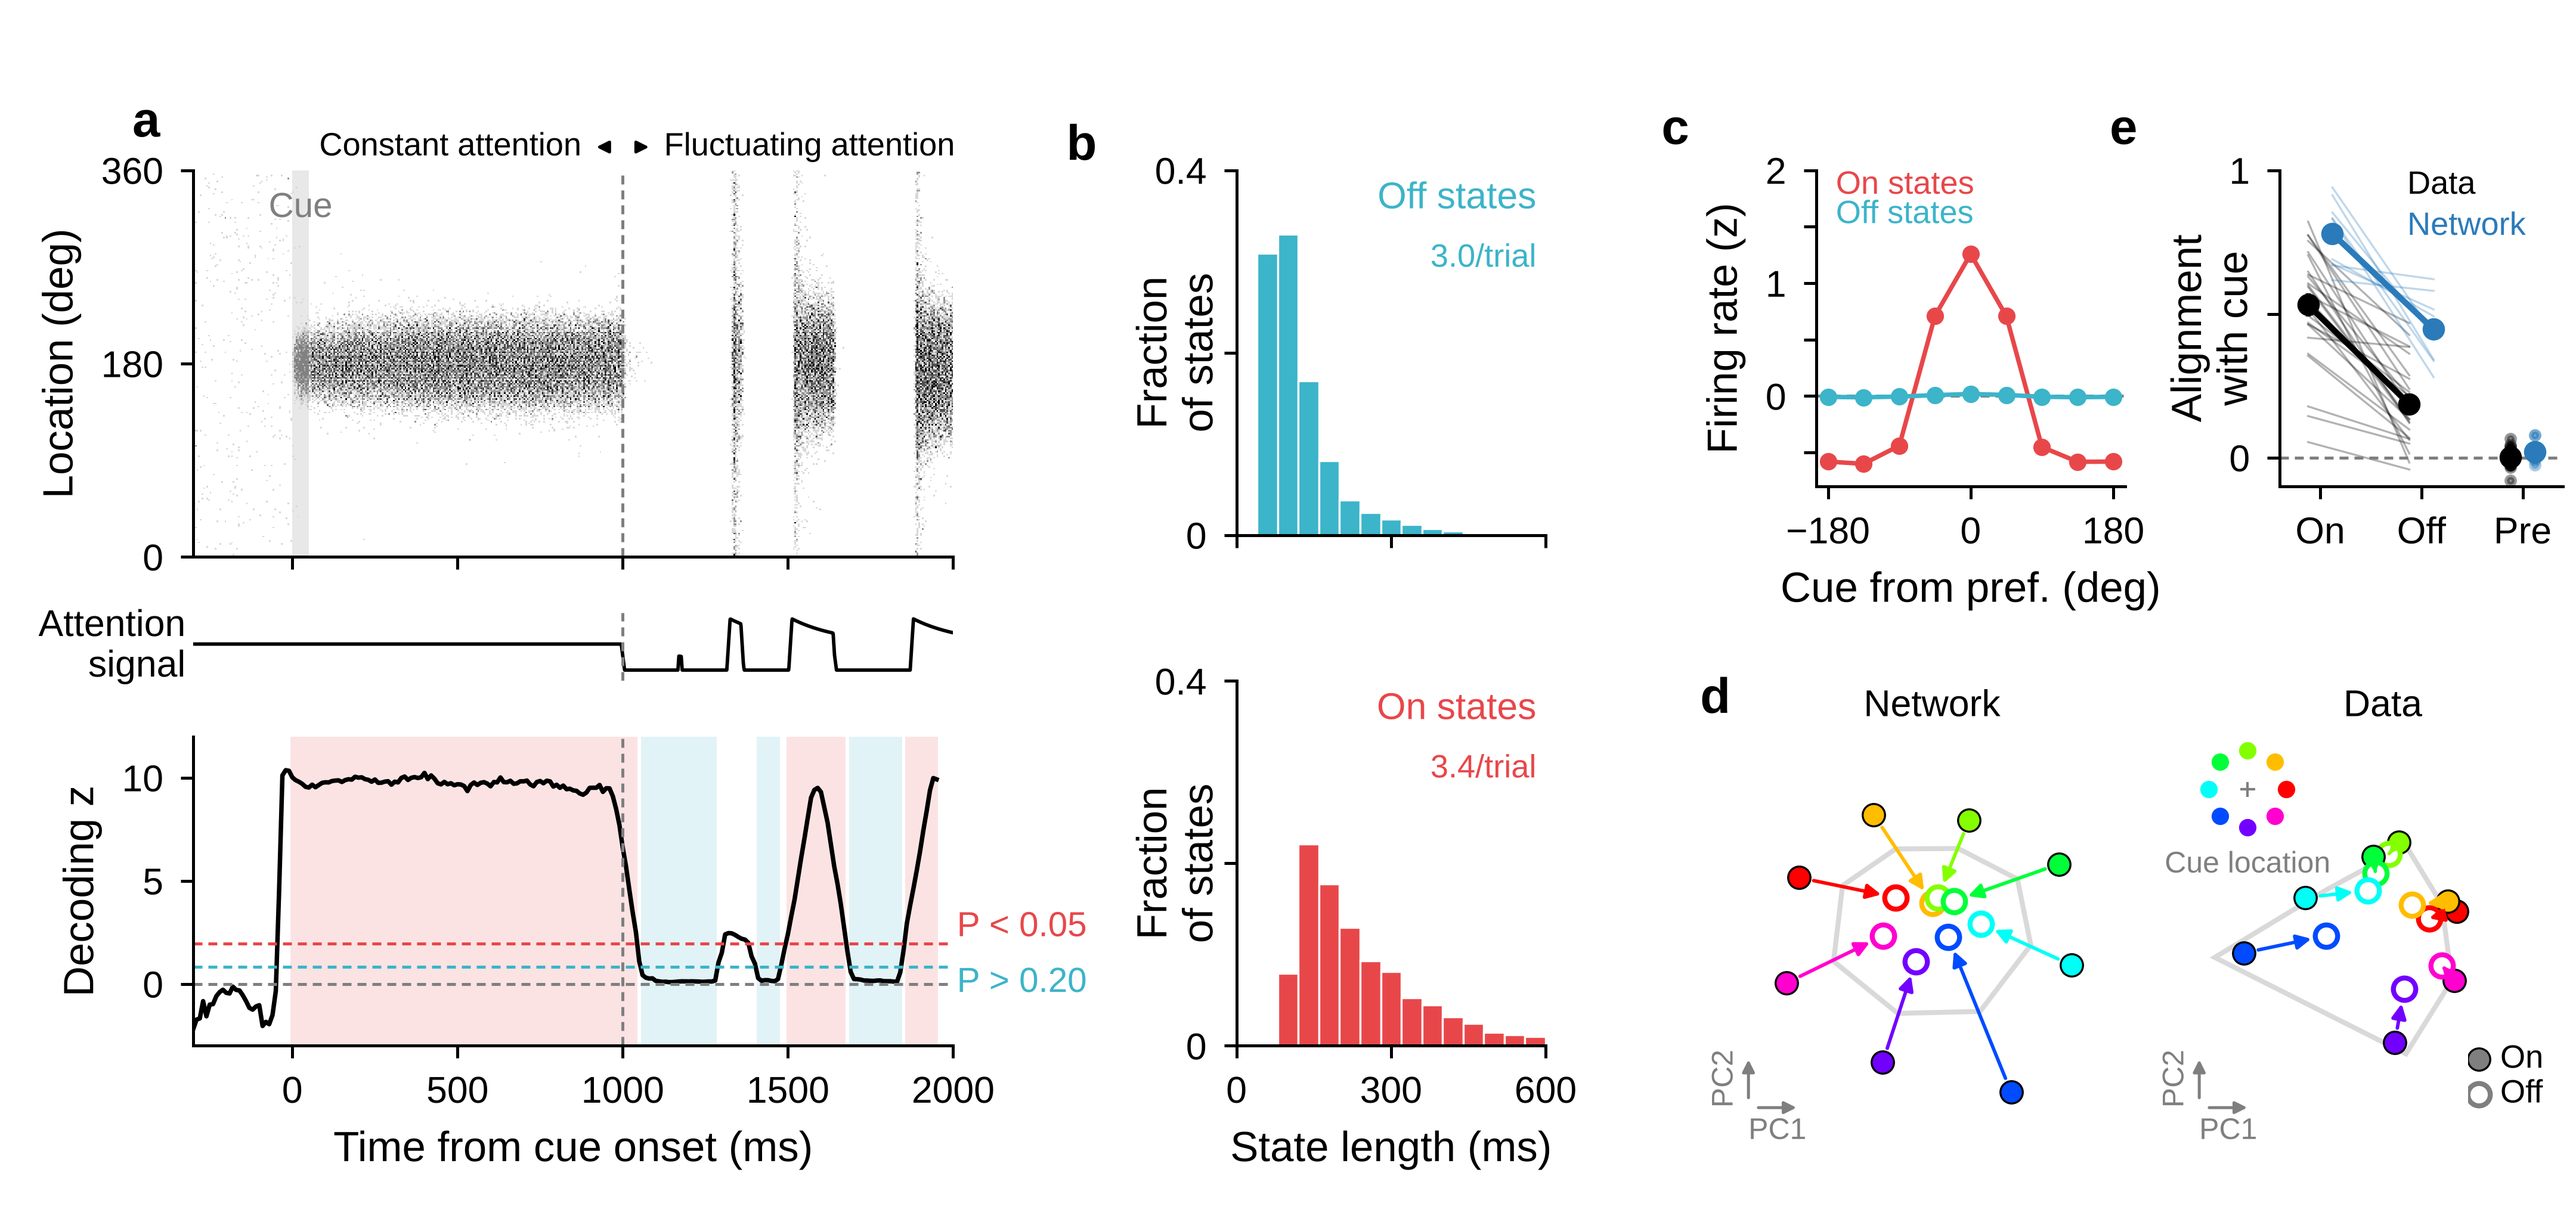
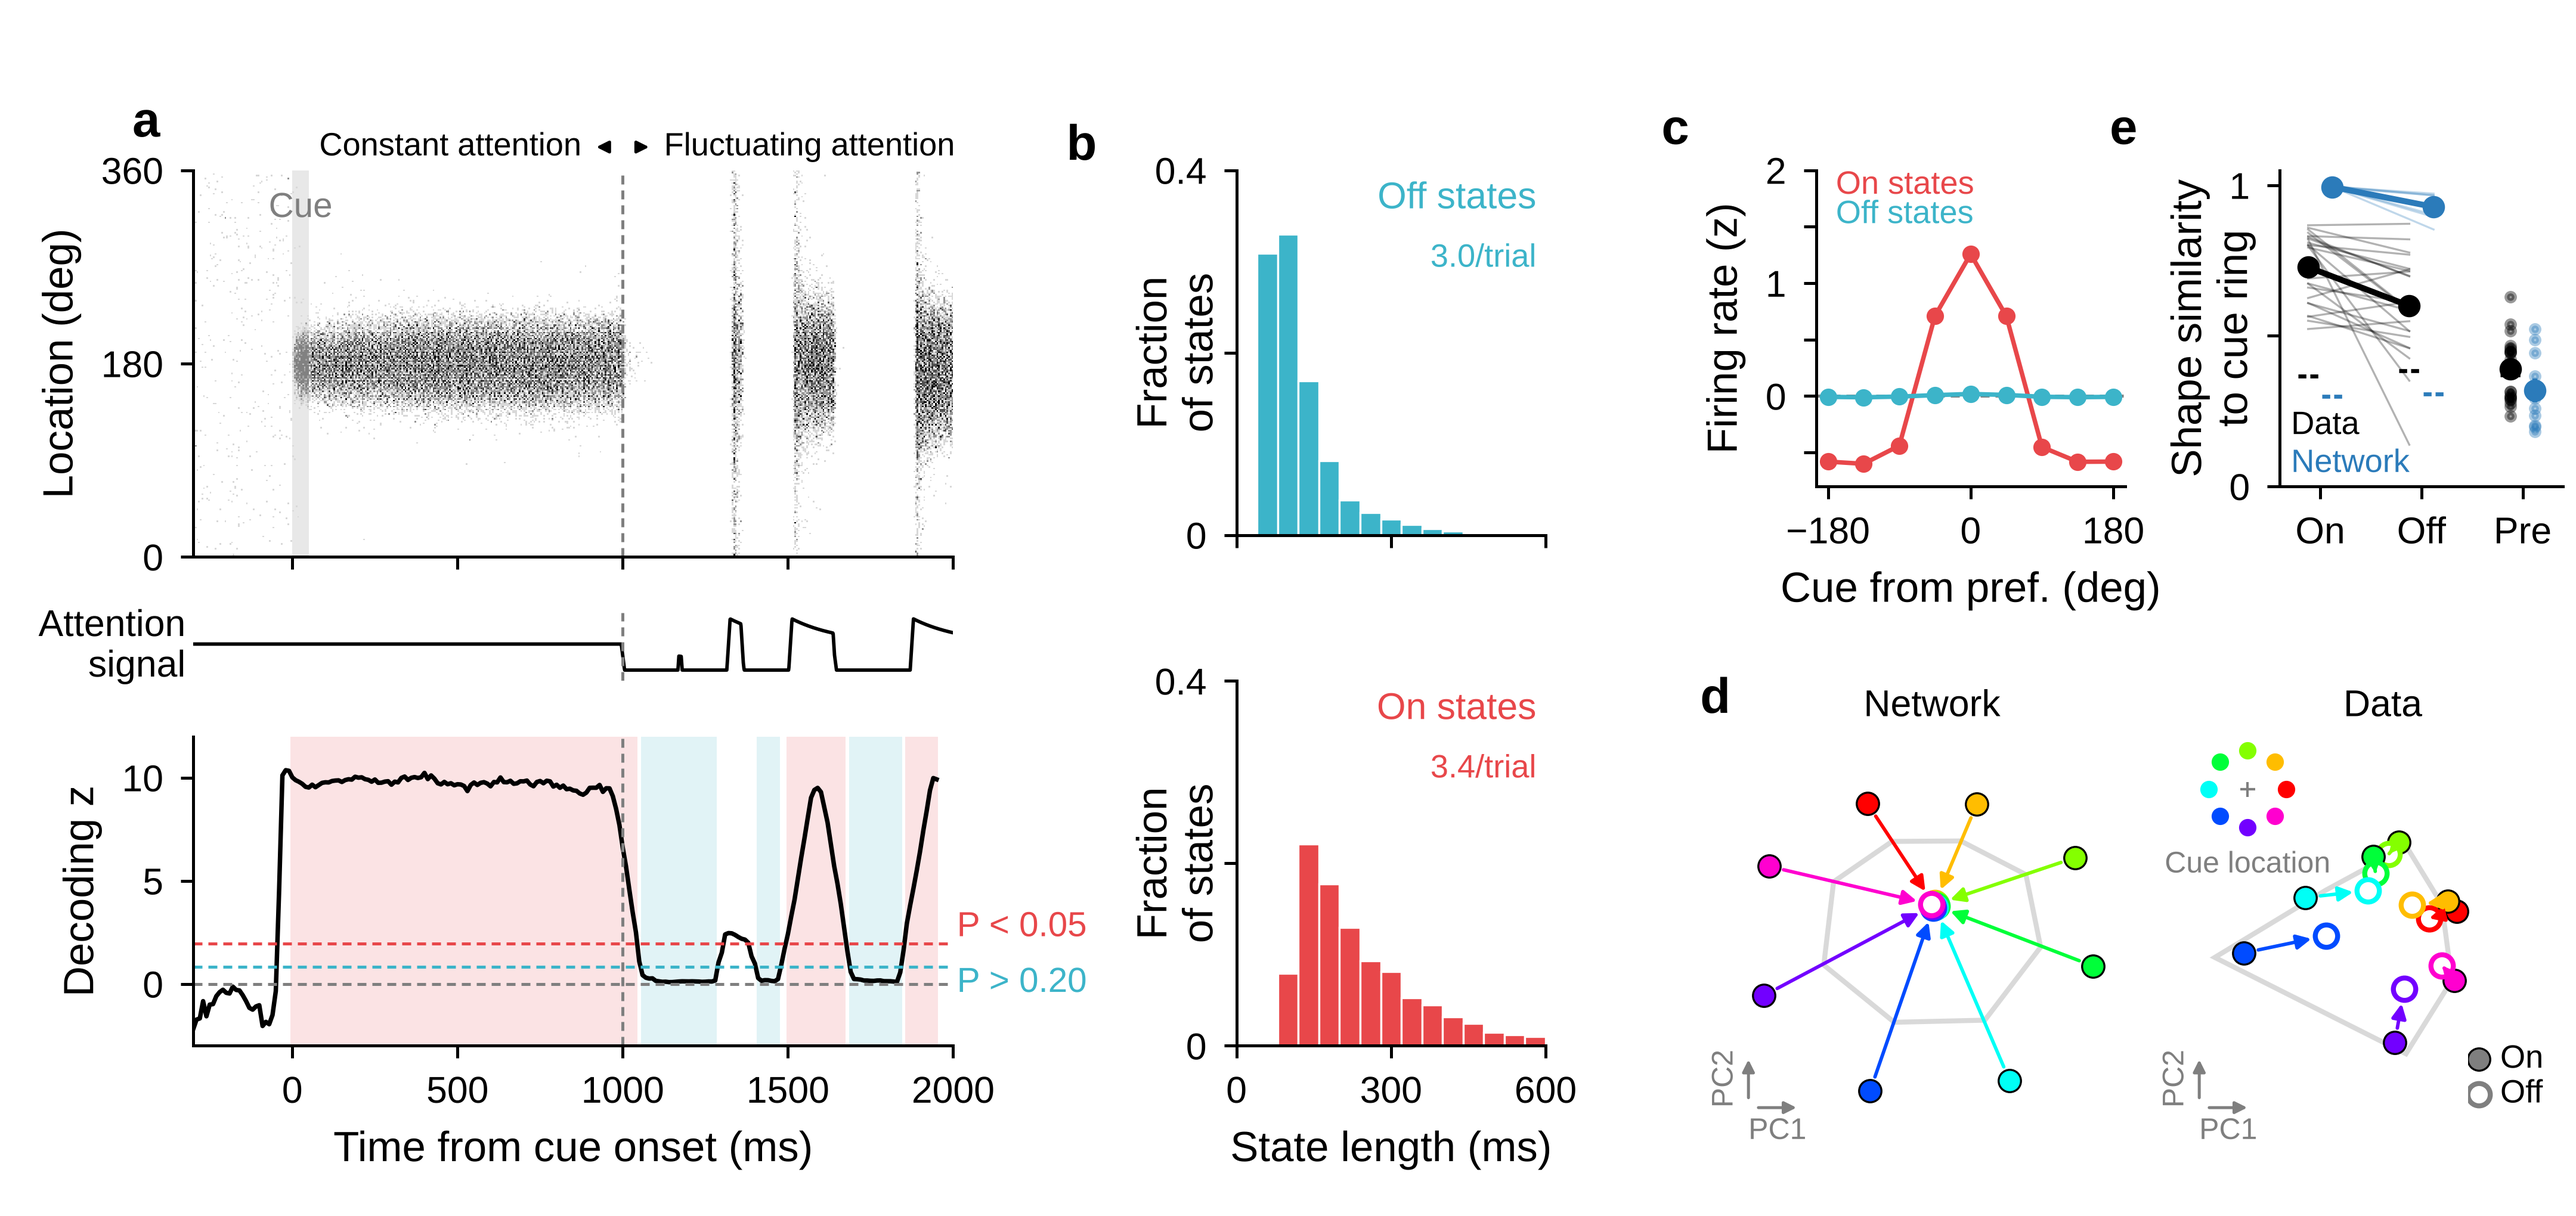
Fig. 4e: Procrustes shape similarity (cue-mean PCs) for data and network; network panel d with all-cells labelling
Claude-Session: https://claude.ai/code/session_01Muxo6fVhqMZ2e3pmGJiRgd

Changed region(s): [[0.8438, 0.1235, 1.0, 0.4015], [0.6562, 0.6485, 0.8125, 0.8956]]

diff --git a/paper/scripts/fig4_spiking.py b/paper/scripts/fig4_spiking.py
@@ -64,13 +64,13 @@ def pca_scatter(ax, rows, deg, title):
 
 
 def pca_panels(fig):
-    """d, delay activity in the plane of the cue means, data (one session) and network (one session); e, alignment
-    with the cue (shuffle-corrected cosine) during On, Off and before the cue, data and network."""
+    """d, delay activity in the plane of the cue means, data (one session) and network (one session); e, Procrustes
+    shape similarity to the ring of cue means during On, Off and before the cue, data and network."""
     P = os.path.join(os.path.dirname(__file__), 'data', 'pca')
     dc = list(csv.DictReader(open(os.path.join(P, 'data_panel_c.csv'))))
     nc = list(csv.DictReader(open(os.path.join(P, 'net_panel_c.csv'))))
     d1 = fig.add_axes([0.675, 0.06, 0.15, 0.36]); d2 = fig.add_axes([0.85, 0.06, 0.15, 0.36])
-    pca_scatter(d1, nc, [45.0 * int(r['cue']) for r in nc], 'Network')
+    pca_scatter(d1, nc, [float(r['angle_deg']) for r in nc], 'Network')
     pca_scatter(d2, dc, [np.degrees(float(r['angle_rad'])) for r in dc], 'Data')
     letter(d1, 'd', x=-0.1, y=1.02)
     key = d2.inset_axes([0.0, 0.7, 0.3, 0.3]); key.set_aspect('equal'); key.axis('off')
@@ -82,26 +82,28 @@ def pca_panels(fig):
     lg = d2.inset_axes([0.72, 0.0, 0.28, 0.2]); lg.axis('off'); lg.set_xlim(0, 1); lg.set_ylim(0, 1)
     lg.plot(0.1, 0.75, 'o', ms=4.5, mfc=GREY, mec=INK, mew=0.4); lg.text(0.3, 0.75, 'On', va='center', fontsize=6.5)
     lg.plot(0.1, 0.3, 'o', ms=4.5, mfc='white', mec=GREY, mew=1.0); lg.text(0.3, 0.3, 'Off', va='center', fontsize=6.5)
-    # e, alignment with the cue
+    # e, Procrustes shape similarity of the per-cue centroids to the ring of cue means (cue-mean PCs with >= 90% of
+    # the variance), during On, Off and before the cue; dashes, shuffled cue labels
     e = fig.add_axes([0.885, 0.6, 0.11, 0.26])
-    dd = list(csv.DictReader(open(os.path.join(P, 'data_panel_d.csv'))))
-    nd = list(csv.DictReader(open(os.path.join(P, 'net_panel_d.csv'))))
-    D = np.array([[float(r[p]) for p in ('on', 'off', 'pre')] for r in dd])
-    sess = sorted({r['session'] for r in nd})
-    N = np.array([[float(next(r['corrected'] for r in nd if r['session'] == ss and r['period'] == p)) for p in ('on', 'off', 'pre')] for ss in sess])
     x = np.array([0, 1, 2])
-    for M, dx, col in ((D, -0.12, INK), (N, 0.12, C_NET)):
+    for fn, dx, col in (('data_procrustes.csv', -0.12, INK), ('net_procrustes.csv', 0.12, C_NET)):
+        rows = [r for r in csv.DictReader(open(os.path.join(P, fn))) if r['space'] == 'pcs']
+        sess = sorted({r['session'] for r in rows})
+        get = lambda k: np.array([[float(next(r[k] for r in rows if r['session'] == ss and r['period'] == q))
+                                   for q in ('on', 'off', 'pre')] for ss in sess])
+        M, Sh = get('similarity'), get('shuffle_mean')
         for row in M:
             e.plot(x[:2] + dx, row[:2], color=col, lw=0.4, alpha=0.3)
             e.plot(x[2] + dx, row[2], 'o', ms=1.5, color=col, alpha=0.4)
         mu, se = M.mean(0), M.std(0, ddof=1) / np.sqrt(len(M))
         e.plot(x[:2] + dx, mu[:2], color=col, lw=1.2)
         e.errorbar(x + dx, mu, yerr=se, fmt='o', ms=3.5, color=col, lw=1.0, capsize=0)
-    e.axhline(0, color=GREY, ls=(0, (3, 2)), lw=0.6)
-    e.set_xticks(x, ['On', 'Off', 'Pre']); e.set_xlim(-0.4, 2.4); e.set_ylim(-0.1, 1.0); e.set_yticks([0, 0.5, 1], ['0', '', '1'])
-    e.set_ylabel('Alignment\nwith cue', labelpad=-6)
-    e.text(0.45, 1.0, 'Data', transform=e.transAxes, color=INK, fontsize=6.5, va='top')
-    e.text(0.45, 0.87, 'Network', transform=e.transAxes, color=C_NET, fontsize=6.5, va='top')
+        for xi, sh in zip(x, Sh.mean(0)):
+            e.plot([xi + dx - 0.1, xi + dx + 0.1], [sh, sh], color=col, lw=0.8, ls=(0, (2, 1)))
+    e.set_xticks(x, ['On', 'Off', 'Pre']); e.set_xlim(-0.4, 2.4); e.set_ylim(0, 1.05); e.set_yticks([0, 0.5, 1], ['0', '', '1'])
+    e.set_ylabel('Shape similarity\nto cue ring', labelpad=-6)
+    e.text(0.04, 0.24, 'Data', transform=e.transAxes, color=INK, fontsize=6.5, va='top')
+    e.text(0.04, 0.12, 'Network', transform=e.transAxes, color=C_NET, fontsize=6.5, va='top')
     letter(e, 'e', x=-0.6, y=1.05)
 
 
